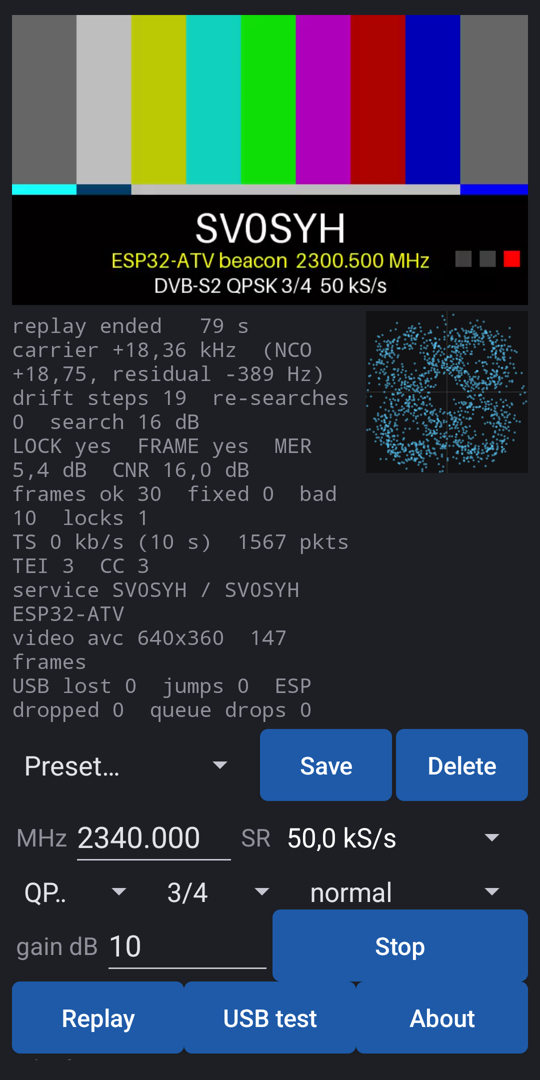
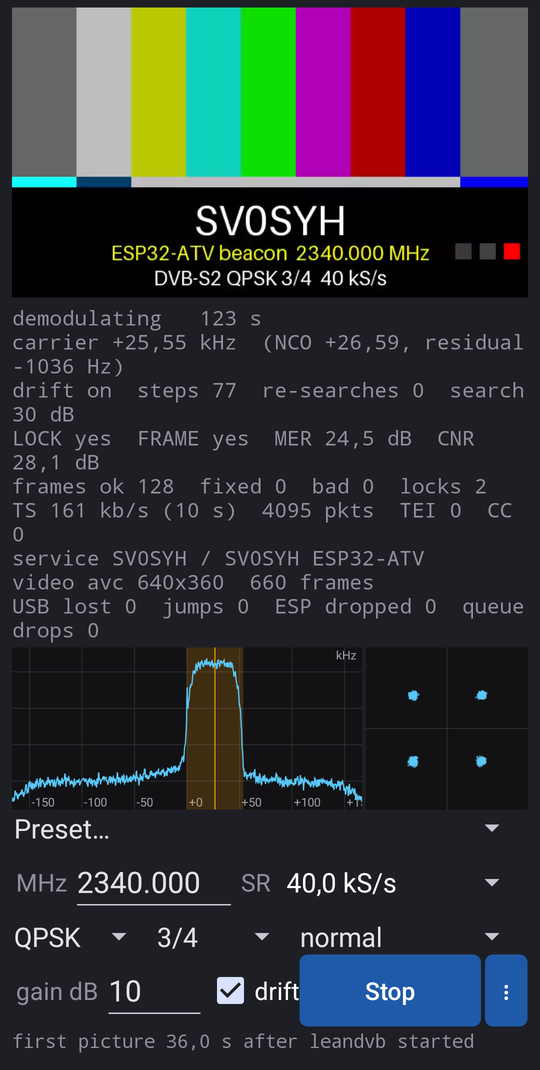
Release 0.5-beta: changelog section; new app screenshot (spectrum, 2340 MHz)

diff --git a/docs/rx-android.en.md b/docs/rx-android.en.md
@@ -10,7 +10,7 @@ with MER, constellation and stream information. Its counterpart is the stand-alo
 > **Beta.** Transmitting is for licensed radio amateurs only, on frequencies allowed by your licence and band plan.
 > The receiver is free software under the GNU GPL v3.
 
-![ATV RX on a phone: the beacon picture, reception status and constellation](img/atvrx-app.png)
+![ATV RX on a phone: the beacon picture, reception status, spectrum and constellation](img/atvrx-app.png)
 
 ## What you need
 

diff --git a/docs/rx-android.cs.md b/docs/rx-android.cs.md
@@ -10,7 +10,7 @@ spolu s MER, konstelací a údaji o streamu. Protějškem je samostatný maják 
 > **Beta.** Vysílat smí jen radioamatéři s platným oprávněním, na kmitočtech podle národních podmínek a band plánu.
 > Přijímač je ke stažení zdarma pod GNU GPL v3.
 
-![ATV RX na telefonu: obraz majáku, stav příjmu a konstelace](img/atvrx-app.png)
+![ATV RX na telefonu: obraz majáku, stav příjmu, spektrum a konstelace](img/atvrx-app.png)
 
 ## Co potřebuješ
 

diff --git a/CHANGELOG.md b/CHANGELOG.md
@@ -2,7 +2,7 @@
 
 ATV RX (the Android app), the beacon tools and the PC receiver. Versions are the app's release tags.
 
-## Unreleased
+## 0.5-beta – 2026-10-15
 
 ### DVB-S2 short frames
 At low symbol rates the first picture comes about 3.5× sooner: on the bench at 40 kS/s 8.4–9.0 s instead of 28–35 s,
